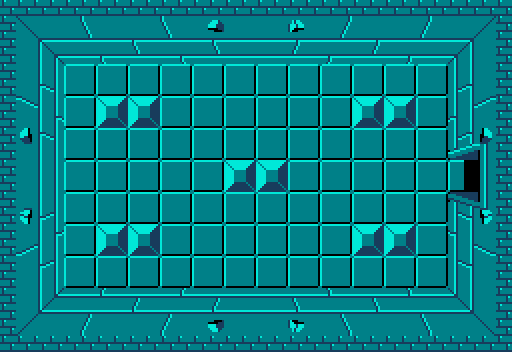
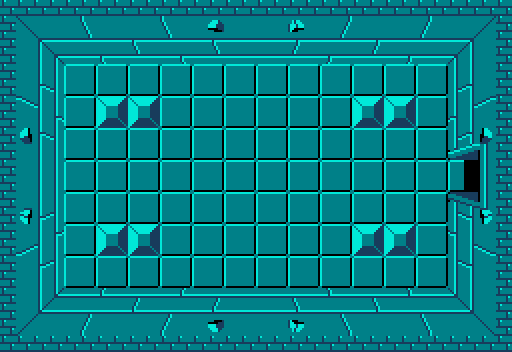
Feature - Monster killed event
Maps can implement an event when all Enemies within the screen are killed by defining a MONSTER_KILL_EVENT dict entre { level_id: label }
label can be one of the ITEM_LABEL checked in level.map_kill_event_done(), or it can be OPEN_DOORS_LABEL which is not implemented yet, but later will kill all closed_event_door_sprites.

dungeon0_9 has been modified to accommodate with the fact that I chose to drop the event item right in the middle of the level screen.

Changed region(s): [[0.4375, 0.4375, 0.5625, 0.5625]]

diff --git a/code/level.py b/code/level.py
@@ -83,6 +83,8 @@ class Level(metaclass=Singleton):
         self.dungeon_background_theme.set_volume(0.2)
         self.game_over_sound = pygame.mixer.Sound(SOUND_GAME_OVER)
         self.game_over_sound.set_volume(0.4)
+        self.event_cleared_sound = pygame.mixer.Sound(SOUND_EVENT_CLEARED)
+        self.event_cleared_sound.set_volume(0.4)
 
         # Sprite setup
         # Player spawns at the center of the game surface
@@ -97,6 +99,7 @@ class Level(metaclass=Singleton):
         self.next_map = None
         self.next_map_screen = None
         self.player_new_position = None
+        self.dead_monsters_event_played = False
 
         self.key_pressed_start_timer = 0
         self.key_pressed_cooldown = LEVEL_KEY_PRESSED_COOLDOWN
@@ -642,6 +645,7 @@ class Level(metaclass=Singleton):
         self.load_items(level_id)
         self.load_enemies(level_id)
         self.load_shop(level_id)
+        self.dead_monsters_event_played = False
 
     def create_transition_surface(self):
         # Only Overworld and Dungeon maps will have warp tiles to border scroll
@@ -957,22 +961,13 @@ class Level(metaclass=Singleton):
             match loot:
                 case 0 | 2 | 4 | 8:
                     rupee_amount = 5 if random.randint(1, 100) <= LOOT_BIG_RUPEE_PERCENTAGE else 1
-                    Rupee(pos,
-                          [self.visible_sprites, self.particle_sprites],
-                          self.obstacle_sprites,
-                          rupee_amount)
+                    Rupee(pos, [self.visible_sprites, self.particle_sprites], rupee_amount)
                 case 1 | 7:
-                    CBomb(pos,
-                          [self.visible_sprites, self.particle_sprites],
-                          self.obstacle_sprites)
+                    CBomb(pos, [self.visible_sprites, self.particle_sprites])
                 case 3:
-                    Fairy(pos,
-                          [self.visible_sprites, self.particle_sprites],
-                          self.border_sprites)
+                    Fairy(pos, [self.visible_sprites, self.particle_sprites], self.border_sprites)
                 case 5 | 6 | 9:
-                    Heart(pos,
-                          [self.visible_sprites, self.particle_sprites],
-                          self.obstacle_sprites)
+                    Heart(pos, [self.visible_sprites, self.particle_sprites])
 
     def player_pick_up(self, item_label, amount=0):
         if item_label in ITEM_PICKUP_ANIMATION.keys():
@@ -1016,12 +1011,47 @@ class Level(metaclass=Singleton):
                 # Item not implemented yet ? abort
                 return
 
+    def map_kill_event_done(self):
+        self.event_cleared_sound.play()
+        level_id = str(self.current_map) + str(self.current_map_screen)
+        event_label = MONSTER_KILL_EVENT[level_id]
+        item_pos = (SCREEN_WIDTH // 2 - TILE_SIZE, (SCREEN_HEIGHT + HUD_OFFSET) // 2 - TILE_SIZE)
+        if event_label == BOMB_LABEL:
+            CBomb(item_pos,
+                  [self.visible_sprites, self.particle_sprites],
+                  True)
+        elif event_label == RUPEE_LABEL:
+            Rupee(item_pos,
+                  [self.visible_sprites, self.particle_sprites],
+                  DUNGEON_RUPEE_AMOUNT,
+                  True)
+        elif event_label == HEART_LABEL:
+            Heart(item_pos,
+                  [self.visible_sprites, self.particle_sprites],
+                  True)
+        elif event_label == KEY_LABEL:
+            Key(item_pos,
+                [self.visible_sprites, self.particle_sprites],
+                level_id,
+                True)
+        elif event_label == HEARTRECEPTACLE_LABEL:
+            HeartReceptacle(item_pos,
+                            [self.visible_sprites, self.particle_sprites],
+                            level_id,
+                            True)
+        elif event_label == OPEN_DOORS_LABEL:
+            # kill all closed_event_door_sprites
+            pass
+        self.dead_monsters_event_played = True
+
     def run(self):
+        dead_monsters_counter = 0
         for monster in self.enemy_sprites:
             if monster.isDead and monster.deathPlayed:
                 # Delete monsters that have played their death animation
                 self.drop_loot(monster.rect.topleft)
                 monster.kill()
+                dead_monsters_counter += 1
             elif self.in_menu:
                 # Reset attack cooldown timer until game is resumed
                 monster.attack_starting_time = pygame.time.get_ticks()
@@ -1056,6 +1086,10 @@ class Level(metaclass=Singleton):
         # Sprites are updated until map transitions
         if self.in_map_transition is None:
             if not self.in_menu:
+                if (dead_monsters_counter == len(self.enemy_sprites.sprites())
+                        and (str(self.current_map) + str(self.current_map_screen)) in MONSTER_KILL_EVENT.keys()
+                        and not self.dead_monsters_event_played):
+                    self.map_kill_event_done()
                 self.visible_sprites.update()
                 self.warp_sprites.update()
             else:

diff --git a/code/particles.py b/code/particles.py
@@ -551,12 +551,12 @@ class MagicMissile(Particle):
 
 
 class Heart(Particle):
-    def __init__(self, owner_pos, groups, obstacle_sprites):
+    def __init__(self, owner_pos, groups, dropped_by_event=False):
 
         owner_direction_vector = pygame.math.Vector2()
         super().__init__(owner_pos, owner_direction_vector, groups)
 
-        self.obstacle_sprites = obstacle_sprites
+        self.dropped_by_event = dropped_by_event
 
         self.frame_id = HEART_FRAME_ID
         self.nb_frames = HEART_FRAMES
@@ -591,6 +591,9 @@ class Heart(Particle):
         pass
 
     def effect(self):
+        if self.dropped_by_event:
+            level_id = str(game.Level().current_map) + str(game.Level().current_map_screen)
+            MONSTER_KILL_EVENT.pop(level_id)
         self.heart_pickup_sound.play()
         game.Level().player_pick_up(HEART_LABEL, 1)
 
@@ -599,13 +602,13 @@ class Heart(Particle):
 
 
 class Rupee(Particle):
-    def __init__(self, owner_pos, groups, obstacle_sprites, amount):
+    def __init__(self, owner_pos, groups, amount, dropped_by_event=False):
 
         owner_direction_vector = pygame.math.Vector2()
         super().__init__(owner_pos, owner_direction_vector, groups)
 
-        self.obstacle_sprites = obstacle_sprites
         self.amount = amount
+        self.dropped_by_event = dropped_by_event
 
         self.frame_id = RUPEE_FRAME_ID
         self.nb_frames = RUPEE_FRAMES
@@ -637,6 +640,9 @@ class Rupee(Particle):
         pass
 
     def effect(self):
+        if self.dropped_by_event:
+            level_id = str(game.Level().current_map) + str(game.Level().current_map_screen)
+            MONSTER_KILL_EVENT.pop(level_id)
         game.Level().player_pick_up(RUPEE_LABEL, self.amount)
 
     def update(self):
@@ -644,12 +650,12 @@ class Rupee(Particle):
 
 
 class CBomb(Particle):
-    def __init__(self, owner_pos, groups, obstacle_sprites):
+    def __init__(self, owner_pos, groups, dropped_by_event=False):
 
         owner_direction_vector = pygame.math.Vector2()
         super().__init__(owner_pos, owner_direction_vector, groups)
 
-        self.obstacle_sprites = obstacle_sprites
+        self.dropped_by_event = dropped_by_event
 
         self.frame_id = CBOMB_FRAME_ID
         self.nb_frames = CBOMB_FRAMES
@@ -685,6 +691,9 @@ class CBomb(Particle):
         pass
 
     def effect(self):
+        if self.dropped_by_event:
+            level_id = str(game.Level().current_map) + str(game.Level().current_map_screen)
+            MONSTER_KILL_EVENT.pop(level_id)
         self.bomb_pickup_sound.play()
         game.Level().player_pick_up(BOMB_LABEL, PLAYER_BOMB_LOOT_AMOUNT)
 
@@ -774,12 +783,13 @@ class Fairy(Particle):
 
 
 class Key(Particle):
-    def __init__(self, owner_pos, groups, level_id):
+    def __init__(self, owner_pos, groups, level_id, dropped_by_event=False):
 
         owner_direction_vector = pygame.math.Vector2()
         super().__init__(owner_pos, owner_direction_vector, groups)
 
         self.level_id = level_id
+        self.dropped_by_event = dropped_by_event
 
         self.frame_id = KEY_FRAME_ID
         self.nb_frames = KEY_FRAMES
@@ -811,7 +821,11 @@ class Key(Particle):
         pass
 
     def effect(self):
-        MAP_ITEMS[self.level_id][KEY_LABEL] = False
+        if self.dropped_by_event:
+            level_id = str(game.Level().current_map) + str(game.Level().current_map_screen)
+            MONSTER_KILL_EVENT.pop(level_id)
+        else:
+            MAP_ITEMS[self.level_id][KEY_LABEL] = False
         game.Level().player_pick_up(KEY_LABEL, 1)
 
     def update(self):
@@ -1056,12 +1070,13 @@ class Flame(Particle):
 
 
 class HeartReceptacle(Particle):
-    def __init__(self, owner_pos, groups, level_id):
+    def __init__(self, owner_pos, groups, level_id, dropped_by_event=False):
 
         owner_direction_vector = pygame.math.Vector2()
         super().__init__(owner_pos, owner_direction_vector, groups)
 
         self.level_id = level_id
+        self.dropped_by_event = dropped_by_event
 
         self.frame_id = HEARTRECEPTACLE_FRAME_ID
         self.nb_frames = HEARTRECEPTACLE_FRAMES
@@ -1094,7 +1109,11 @@ class HeartReceptacle(Particle):
         pass
 
     def effect(self):
-        MAP_ITEMS[self.level_id][HEARTRECEPTACLE_LABEL] = False
+        if self.dropped_by_event:
+            level_id = str(game.Level().current_map) + str(game.Level().current_map_screen)
+            MONSTER_KILL_EVENT.pop(level_id)
+        else:
+            MAP_ITEMS[self.level_id][HEARTRECEPTACLE_LABEL] = False
         game.Level().player_pick_up(HEARTRECEPTACLE_LABEL)
 
     def update(self):

diff --git a/code/settings.py b/code/settings.py
@@ -76,6 +76,8 @@ STAIRS_LABEL = 'stairs'
 SCREEN_LABEL = 'screen'
 PLAYER_POS_LABEL = 'player_pos'
 HELP_LABEL = 'help'
+# Event label
+OPEN_DOORS_LABEL = 'open doors'
 # Graphics paths
 GRAPHICS_EXTENSION = '.png'
 GRAPHICS_PATH = '../graphics/'
@@ -158,6 +160,7 @@ SOUND_BOMB_DROP = AUDIO_PATH + 'Bomb_Drop.wav'
 SOUND_BOMB_EXPLODE = AUDIO_PATH + 'Bomb_Explode.wav'
 SOUND_STAIRS = AUDIO_PATH + 'Stairs.wav'
 SOUND_FLAME = AUDIO_PATH + 'Flame.wav'
+SOUND_EVENT_CLEARED = AUDIO_PATH + 'Event_Cleared.wav'
 
 # COLOR PALETTE INFO
 COLOR_KEY = (116, 116, 116)
@@ -223,6 +226,7 @@ PLAYER_INITIAL_ITEM_A = NONE_LABEL
 PLAYER_INITIAL_ITEM_B = NONE_LABEL
 PLAYER_BOMBS_MAX = 8
 PLAYER_BOMB_LOOT_AMOUNT = 4
+DUNGEON_RUPEE_AMOUNT = 20
 WOOD_SWORD_DMG = 16
 WHITE_SWORD_DMG = 32
 MAGICAL_SWORD_DMG = 64
@@ -629,10 +633,10 @@ MAP_ITEMS = {
     LEVEL_PREFIX_LABEL + '5': {HEARTRECEPTACLE_LABEL: True},
     LEVEL_PREFIX_LABEL + '9': {HEARTRECEPTACLE_LABEL: True},
     LEVEL_PREFIX_LABEL + '14': {LADDER_LABEL: True},
-    DUNGEON_PREFIX_LABEL + '3': {TRIFORCE_LABEL: True},
-    DUNGEON_PREFIX_LABEL + '4': {HEARTRECEPTACLE_LABEL: True},
-    DUNGEON_PREFIX_LABEL + '6': {BOOMERANG_LABEL: True},
-    DUNGEON_PREFIX_LABEL + '11': {KEY_LABEL: True}
+    DUNGEON_PREFIX_LABEL + '0_3': {TRIFORCE_LABEL: True},
+    DUNGEON_PREFIX_LABEL + '0_4': {HEARTRECEPTACLE_LABEL: True},
+    DUNGEON_PREFIX_LABEL + '0_6': {BOOMERANG_LABEL: True},
+    DUNGEON_PREFIX_LABEL + '0_11': {KEY_LABEL: True}
 }
 
 # NPCS
@@ -689,6 +693,14 @@ SHOP_ITEMS = {
     BOOMERANG_LABEL: BOOMERANG_FRAME_ID,
     CANDLE_LABEL: RED_CANDLE_FRAME_ID,
     WOOD_SWORD_LABEL: WOOD_SWORD_FRAME_ID
+}
+
+# MONSTER KILL EVENTS LOCATION
+#
+MONSTER_KILL_EVENT = {
+    DUNGEON_PREFIX_LABEL + '0_0': KEY_LABEL,
+    DUNGEON_PREFIX_LABEL + '0_9': BOMB_LABEL,
+    DUNGEON_PREFIX_LABEL + '0_2': OPEN_DOORS_LABEL
 }
 
 # GAME STARTING COORDINATES
